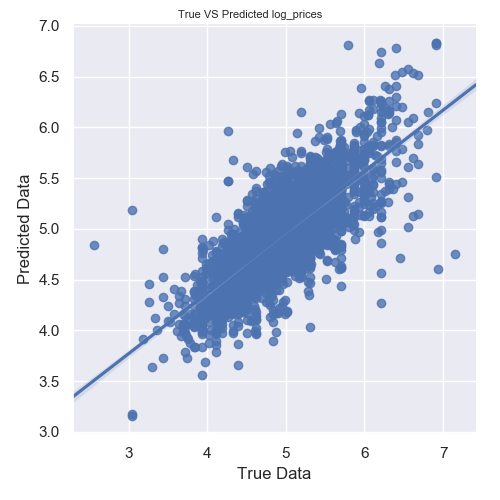
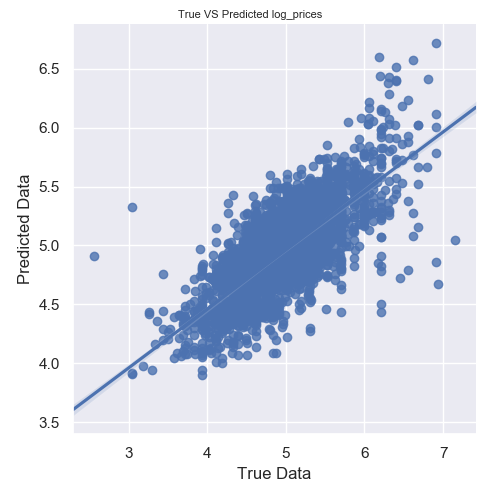
Add feature importance analysis Clean the code for the BGRT

diff --git a/scripts/modeling.py b/scripts/modeling.py
@@ -1,18 +1,19 @@
 from sklearn.model_selection import train_test_split
 import pandas as pd
+import numpy as np
 from sklearn.metrics import mean_squared_error
-from sklearn.ensemble import GradientBoostingRegressor
 from scipy import sparse
-
+from sklearn import ensemble
+import pickle
 import seaborn as sns
 sns.set(color_codes=True)
-
 import matplotlib.pyplot as plt
 import statsmodels.api as sm
 from scripts import helpers
 
 X = pd.DataFrame(sparse.load_npz("../data/X.npz").toarray())
 y = pd.read_csv("../data/y.csv", index_col=0, header=None)
+var_names = pickle.load(open('../data/var_names.pkl', 'rb'))
 
 X_train, X_test, y_train, y_test = train_test_split(X, y, test_size=0.2, random_state=42)
 
@@ -22,28 +23,59 @@ for dataset, name in [(X_train, "X_train"), (X_test, "X_test"), (y_train, "y_tra
 y_train = y_train.values.reshape(-1,)
 y_test = y_test.values.reshape(-1,)
 
-gbrt = GradientBoostingRegressor(max_depth=10, warm_start=True)
-min_val_error = float("inf")
-error_going_up = 0
-val_errors = []
+params = {'n_estimators': 500, 'max_depth': 4, 'min_samples_split': 2,
+          'learning_rate': 0.01, 'loss': 'ls'}
+clf = ensemble.GradientBoostingRegressor(**params)
 
-for n_estimators in range(1, 1200):
-    gbrt.n_estimators = n_estimators
-    gbrt.fit(X_train, y_train)
-    y_pred = gbrt.predict(X_test)
-    val_error = mean_squared_error(y_test, y_pred)
-    val_errors.append(val_error)
-    print(val_error)
-    if val_error < min_val_error:
-        min_val_error = val_error
-        error_going_up = 0
-    else:
-        error_going_up += 1
-    if error_going_up == 5:
-        break # early stopping
+clf.fit(X_train, y_train)
+mse = mean_squared_error(y_test, clf.predict(X_test))
+print("MSE: %.4f" % mse)
 
-helpers.draw(y=val_errors, xlabel="iteration", ylabel="MSE",
-             filename='../imgs/mean_squared_error.png', title="Mean Squared Error")
+# #############################################################################
+# Plot training deviance
+
+# compute test set deviance
+test_score = np.zeros((params['n_estimators'],), dtype=np.float64)
+
+for i, y_pred in enumerate(clf.staged_predict(X_test)):
+    test_score[i] = clf.loss_(y_test, y_pred)
+
+plt.figure(figsize=(60, 60))
+plt.subplot(1, 2, 1)
+plt.title('Deviance')
+plt.plot(np.arange(params['n_estimators']) + 1, clf.train_score_, 'b-',
+         label='Training Set Deviance')
+plt.plot(np.arange(params['n_estimators']) + 1, test_score, 'r-',
+         label='Test Set Deviance')
+plt.legend(loc='upper right')
+plt.xlabel('Boosting Iterations')
+plt.ylabel('Deviance')
+
+# #############################################################################
+# Plot feature importance
+feature_importance = clf.feature_importances_
+# make importance relative to max importance
+feature_importance = 100.0 * (feature_importance / feature_importance.max())
+sorted_idx = np.argsort(feature_importance)
+pos = np.arange(sorted_idx.shape[0]) + .5
+plt.subplot(1, 2, 2)
+plt.barh(pos, feature_importance[sorted_idx], align='center')
+ranked_features_asc = np.array(var_names)[sorted_idx]
+plt.yticks(pos, ranked_features_asc)
+plt.xlabel('Relative Importance')
+plt.title('Variable Importance')
+plt.savefig('../imgs/deviance.png')
+print("Check out the plot located at '../imgs/deviance.png'")
+
+ranked_features_dsc = ranked_features_asc[::-1]
+print("Features of most importance (descending):\n")
+# rank the features in descending order
+higher_cutoff_idx = np.argmax(feature_importance[sorted_idx]>=5)
+lower_cutoff_idx = np.argmax(feature_importance[sorted_idx]>=1)
+
+second_level_idx = (len(feature_importance) - higher_cutoff_idx + 1) * ["More Important (>=5)"] + (higher_cutoff_idx - lower_cutoff_idx) * ["Less Important (1<= && <5)"] + \
+                     (lower_cutoff_idx - 1) * ["Not Important (<1)"]
+pd.DataFrame(feature_importance[sorted_idx][::-1], index=[second_level_idx, ranked_features_dsc])
 
 results = sm.OLS(y_pred,sm.add_constant(y_test)).fit()
 print(results.summary())
@@ -53,4 +85,10 @@ fig = sns_plot.fig
 fig.suptitle('True VS Predicted log_prices', fontsize=8)
 fig.savefig('../imgs/true_vs_predicted_log_prices.png')
 plt.show()
-# notice the confidence interval is very small; we almost can't see it
+
+########################################
+# Explanation of the results
+#
+#
+#
+########################################

diff --git a/scripts/unused.py b/scripts/unused.py
@@ -1,49 +1,50 @@
-from sklearn.svm import SVR
-from sklearn.feature_selection import RFE
-from sklearn.feature_selection import SelectKBest
-from sklearn.feature_selection import chi2
-# g = df.columns.to_series().groupby(df.dtypes).groups
-for s in ['name', 'summary', 'space',
-        'description', 'experiences_offered', 'neighborhood_overview', 'notes',
-        'transit', 'access', 'interaction', 'house_rules', 'picture_url',
-        'host_url', 'host_name', 'host_since', 'host_location', 'host_about',
-        'host_response_time', 'host_response_rate', 'host_is_superhost',
-        'host_thumbnail_url', 'host_picture_url', 'host_neighbourhood',
-        'host_verifications', 'host_has_profile_pic', 'host_identity_verified',
-        'street', 'neighbourhood', 'neighbourhood_cleansed', 'city', 'state',
-        'zipcode', 'market', 'smart_location', 'country_code', 'country',
-        'is_location_exact', 'property_type', 'room_type', 'bed_type',
-        'amenities', 'weekly_price', 'monthly_price', 'security_deposit',
-        'cleaning_fee', 'extra_people', 'calendar_updated', 'has_availability',
-        'calendar_last_scraped', 'first_review', 'last_review',
-        'requires_license', 'license', 'jurisdiction_names', 'instant_bookable',
-        'is_business_travel_ready', 'cancellation_policy',
-        'require_guest_profile_picture', 'require_guest_phone_verification']:
-    print(s)
-    print(df[s].head())
-    print(df[s].describe())
-    print("-------------------------")
-
-# check if two cols are the same
-arr = "diff" in np.where(df['runs1']==df['runs2'], 'same', 'diff')
-np.unique(arr, return_counts=True)
-
-# Feature Elimination
-
-%% q
-
-estimator = SVR(kernel="linear")
-selector = RFE(estimator, 5, step=1)
-selector = selector.fit(X, y)
-selector.support_
-
-
-%%
-
-selector.ranking_
-for i in range(len(list(X))):
-    if selector.ranking_[i] == 1:
-        print(list(X)[i])
-
-# for col in cat_attribs:
-#     print(df[col].value_counts())
+# from sklearn.svm import SVR
+# from sklearn.feature_selection import RFE
+# from sklearn.feature_selection import SelectKBest
+# from sklearn.feature_selection import chi2
+# # g = df.columns.to_series().groupby(df.dtypes).groups
+# for s in ['name', 'summary', 'space',
+#         'description', 'experiences_offered', 'neighborhood_overview', 'notes',
+#         'transit', 'access', 'interaction', 'house_rules', 'picture_url',
+#         'host_url', 'host_name', 'host_since', 'host_location', 'host_about',
+#         'host_response_time', 'host_response_rate', 'host_is_superhost',
+#         'host_thumbnail_url', 'host_picture_url', 'host_neighbourhood',
+#         'host_verifications', 'host_has_profile_pic', 'host_identity_verified',
+#         'street', 'neighbourhood', 'neighbourhood_cleansed', 'city', 'state',
+#         'zipcode', 'market', 'smart_location', 'country_code', 'country',
+#         'is_location_exact', 'property_type', 'room_type', 'bed_type',
+#         'amenities', 'weekly_price', 'monthly_price', 'security_deposit',
+#         'cleaning_fee', 'extra_people', 'calendar_updated', 'has_availability',
+#         'calendar_last_scraped', 'first_review', 'last_review',
+#         'requires_license', 'license', 'jurisdiction_names', 'instant_bookable',
+#         'is_business_travel_ready', 'cancellation_policy',
+#         'require_guest_profile_picture', 'require_guest_phone_verification']:
+#     print(s)
+#     print(df[s].head())
+#     print(df[s].describe())
+#     print("-------------------------")
+#
+# # check if two cols are the same
+# arr = "diff" in np.where(df['runs1']==df['runs2'], 'same', 'diff')
+# np.unique(arr, return_counts=True)
+#
+# # Feature Elimination
+#
+# %% q
+#
+# estimator = SVR(kernel="linear")
+# selector = RFE(estimator, 5, step=1)
+# selector = selector.fit(X, y)
+# selector.support_
+#
+#
+# %%
+#
+# selector.ranking_
+# for i in range(len(list(X))):
+#     if selector.ranking_[i] == 1:
+#         print(list(X)[i])
+#
+# # for col in cat_attribs:
+# #     print(df[col].value_counts())
+# sparse.save_npz("../data/X.npz", X)

diff --git a/scripts/pipeline.py b/scripts/pipeline.py
@@ -2,6 +2,7 @@
 
 import pickle
 from data import data_keys
+import helpers
 from sklearn.pipeline import Pipeline
 from sklearn.preprocessing import Imputer as SimpleImputer
 from sklearn.preprocessing import StandardScaler
@@ -20,7 +21,6 @@ num_pipeline = Pipeline([
         ('std_scaler', StandardScaler()),
     ])
 
-
 cat_pipeline = Pipeline([
         ('imputer', CategoricalImputer(strategy='constant', fill_value='nan')), # mode by default; only works with string values
         ('encoder', OneHotEncoder(handle_unknown='ignore')),
@@ -29,10 +29,9 @@ cat_pipeline = Pipeline([
 df = df[num_attribs + cat_attribs]
 cols_contain_nans = df.columns[df.isna().any()].tolist()
 cat_cols_contain_nans = [col for col in cols_contain_nans if col in cat_attribs]
-cat_cols_contain_nans
+print("cat_cols_contain_nans: \n", cat_cols_contain_nans)
 
-#%%
-
+# to make sure the dependent variable is not in the training data
 try:
     num_attribs.remove("log_price")
 except:
@@ -47,6 +46,7 @@ X = full_pipeline.fit_transform(df[num_attribs + cat_attribs])
 y = df["log_price"]
 
 ## Save the Data
-
 sparse.save_npz("../data/X.npz", X)
+var_names = helpers.get_transformer_feature_names(full_pipeline)
+pickle.dump(var_names, open('../data/var_names.pkl', 'wb'))
 y.to_csv("../data/y.csv")

diff --git a/scripts/helpers.py b/scripts/helpers.py
@@ -53,3 +53,20 @@ def drop_attribs(df, attribs, list_to_drop):
     attribs = [col_name for col_name in attribs if col_name not in list_to_drop]
 
     return df, attribs
+
+def get_transformer_feature_names(columnTransformer):
+
+    output_features = []
+
+    for name, pipe, features in columnTransformer.transformers_:
+        if name!='remainder':
+            for i in pipe:
+                trans_features = []
+                if hasattr(i,'categories_'):
+                    trans_features.extend(i.get_feature_names(features))
+                else:
+                    trans_features = features
+            output_features.extend(trans_features)
+
+    return output_features
+
